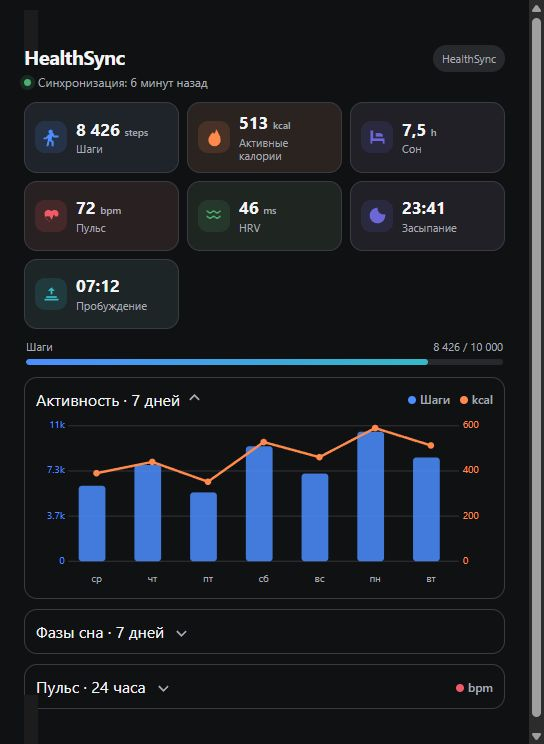
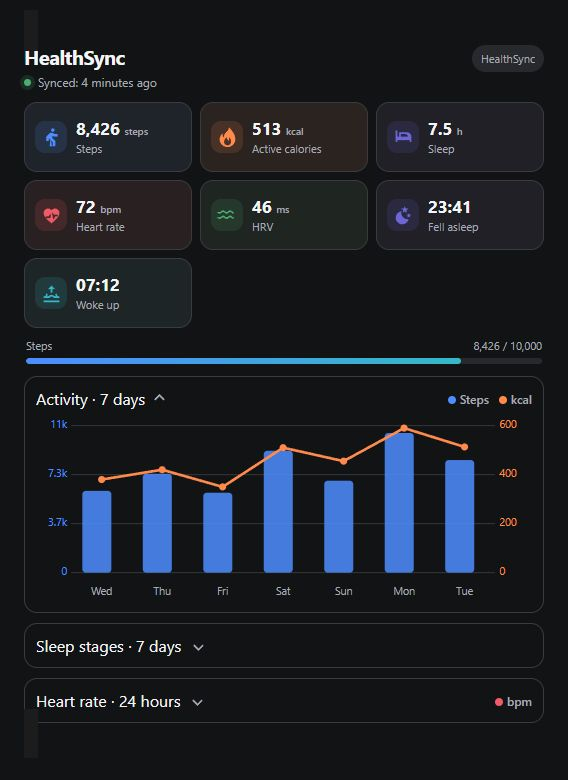
Use English preview and add HACS button

diff --git a/README.ru.md b/README.ru.md
@@ -36,6 +36,8 @@
 
 ## Установка через HACS как пользовательский репозиторий
 
+[![Открыть репозиторий в Home Assistant Community Store.](https://my.home-assistant.io/badges/hacs_repository.svg)](https://my.home-assistant.io/redirect/hacs_repository/?owner=BrainDeLook&repository=healthsync-dashboard-card&category=plugin)
+
 1. Откройте **HACS**.
 2. В меню с тремя точками выберите **Пользовательские репозитории**.
 3. Добавьте `https://github.com/BrainDeLook/healthsync-dashboard-card`.

diff --git a/README.md b/README.md
@@ -35,6 +35,8 @@ and verified against `0.7.0`.
 
 ## Install with HACS as a custom repository
 
+[![Open your Home Assistant instance and add this repository to HACS.](https://my.home-assistant.io/badges/hacs_repository.svg)](https://my.home-assistant.io/redirect/hacs_repository/?owner=BrainDeLook&repository=healthsync-dashboard-card&category=plugin)
+
 1. Open **HACS** in Home Assistant.
 2. Open the three-dot menu and choose **Custom repositories**.
 3. Add `https://github.com/BrainDeLook/healthsync-dashboard-card`.
